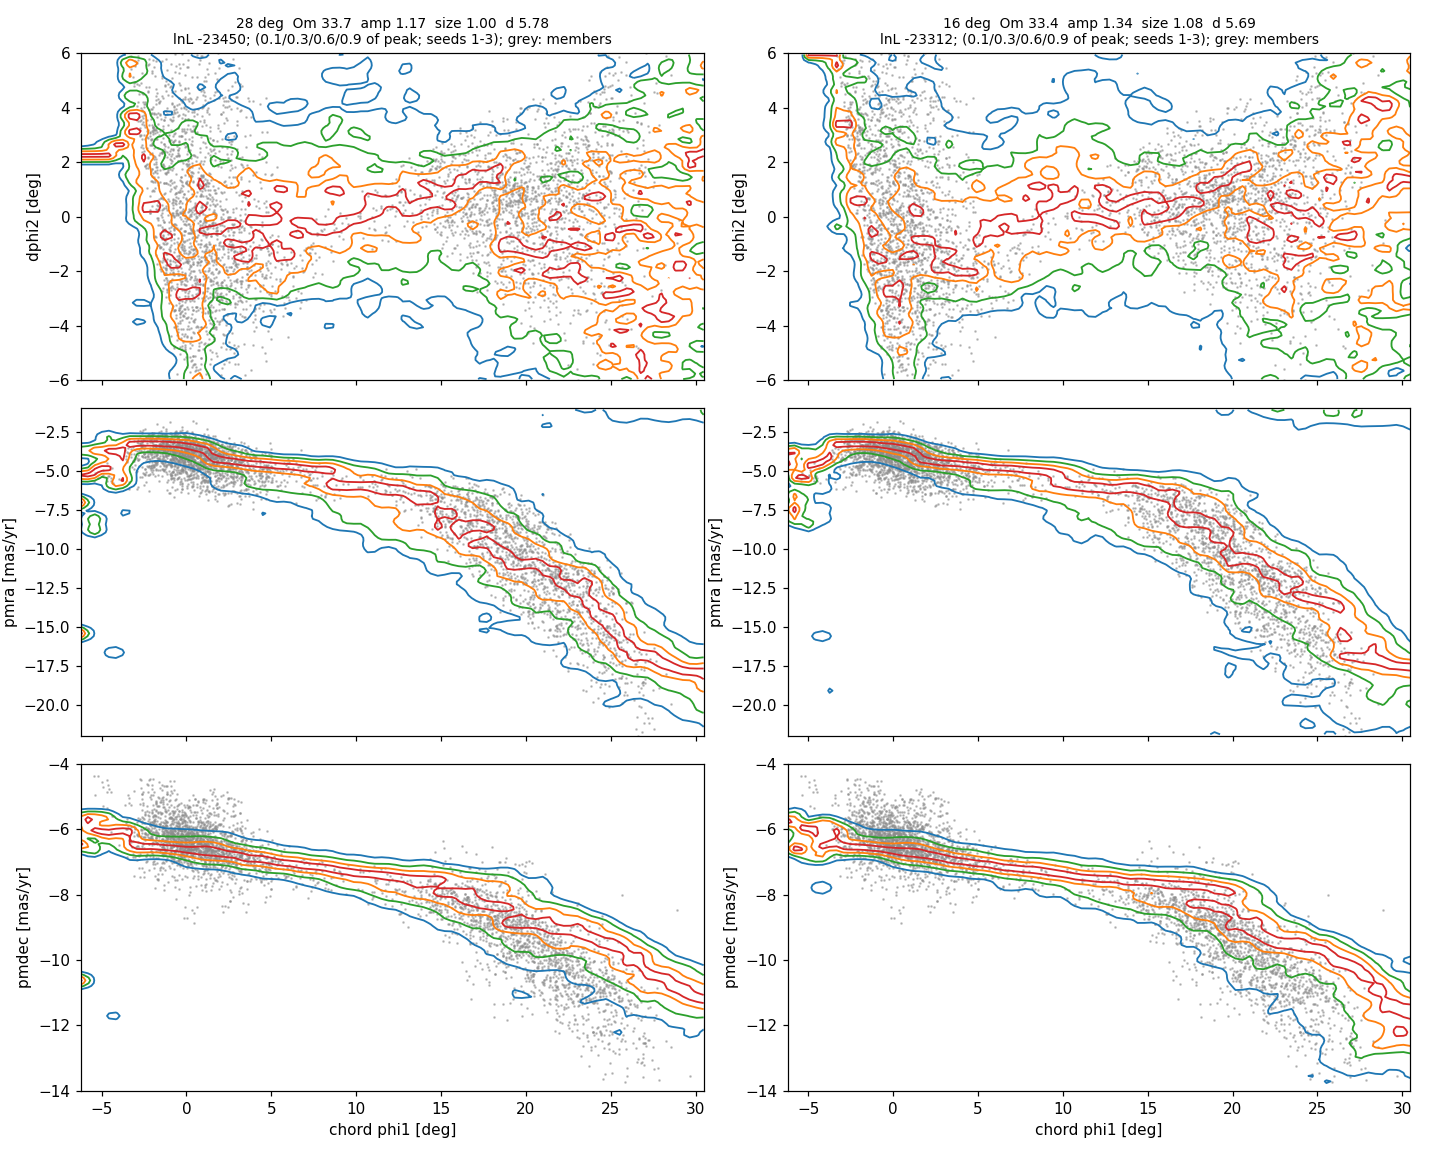
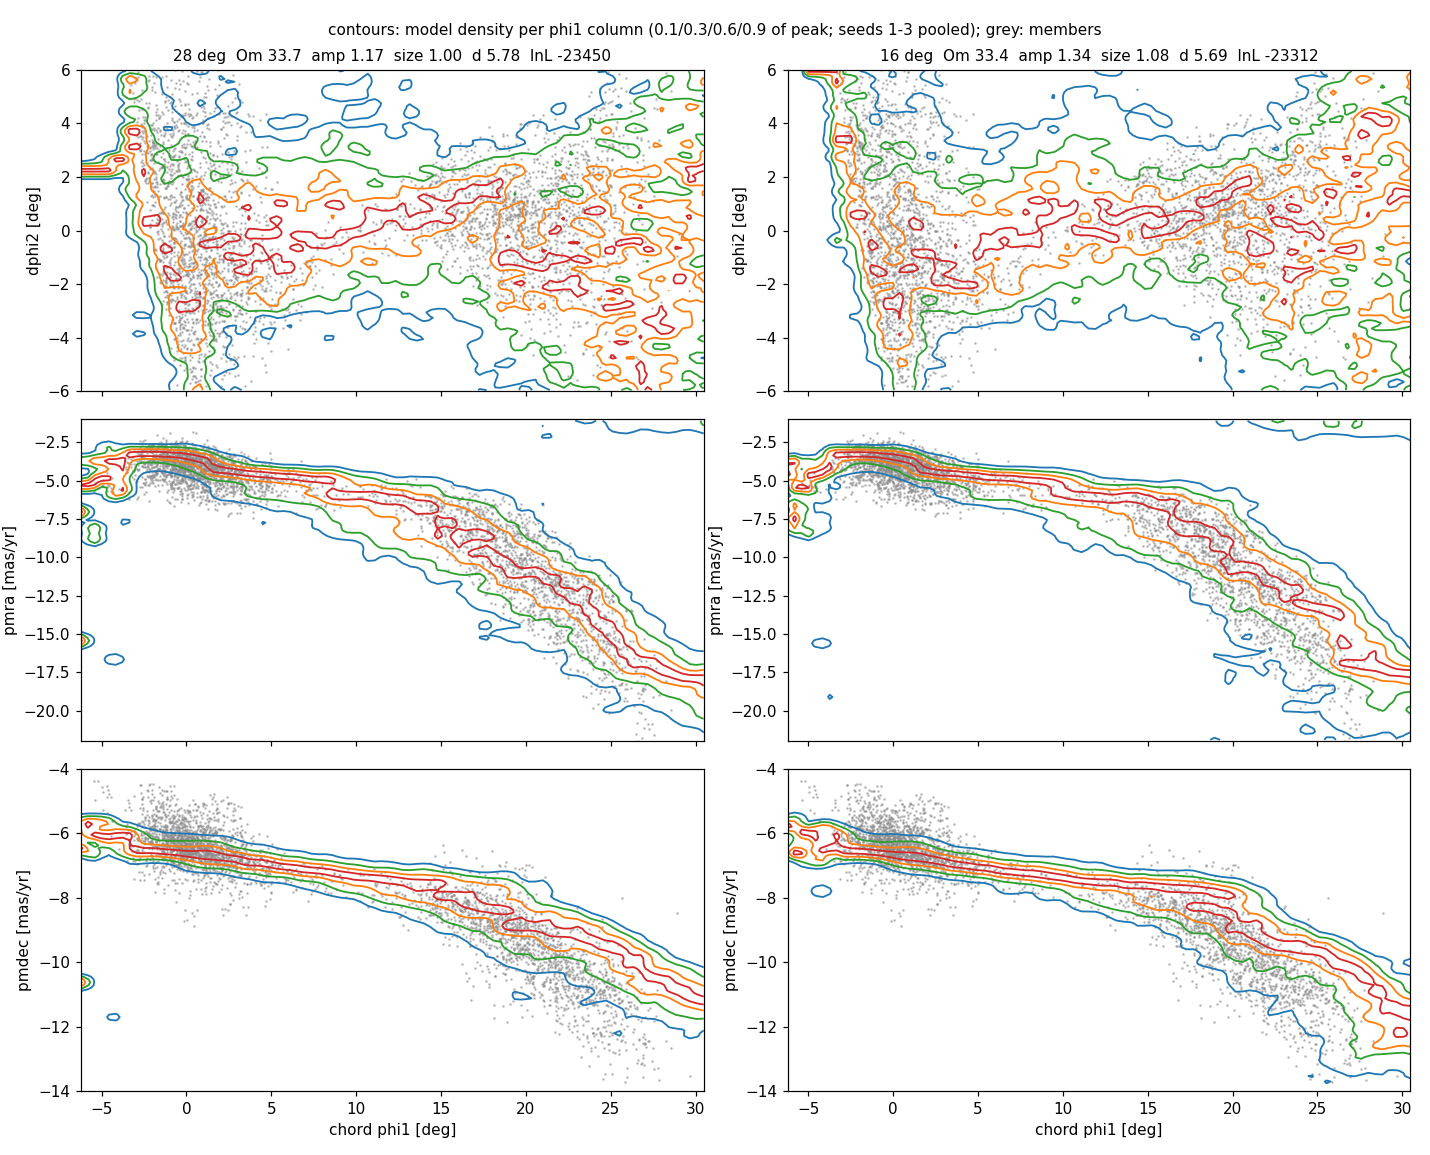
Fix plot titles

diff --git a/bin/streams/plot_profile_stage1.py b/bin/streams/plot_profile_stage1.py
@@ -41,7 +41,7 @@ for col, an in enumerate((28., 16.)):
         a.plot(du, dy, ".", color="0.55", ms=1.5, alpha=.5, zorder=1)
         a.contour(0.5*(xe[1:]+xe[:-1]), 0.5*(ye[1:]+ye[:-1]), Hc.T, levels=[0.1, 0.3, 0.6, 0.9], colors=["C0", "C2", "C1", "C3"], linewidths=1.2, zorder=2)
         a.set_ylabel(lab); a.set_ylim(lim)
-    ax[0, col].set_title(f"{an:g} deg  Om {b['om']:.1f}  amp {b['am']:.2f}  size {b['size']:.2f}  d {b['dist']:.2f}\nlnL {b['lnL']:.0f};"
-                         " (0.1/0.3/0.6/0.9 of peak; seeds 1-3); grey: members", fontsize=9)
+    ax[0, col].set_title(f"{an:g} deg  Om {b['om']:.1f}  amp {b['am']:.2f}  size {b['size']:.2f}  d {b['dist']:.2f}  lnL {b['lnL']:.0f}", fontsize=10)
     ax[2, col].set_xlabel("chord phi1 [deg]")
+fig.suptitle("contours: model density per phi1 column (0.1/0.3/0.6/0.9 of peak; seeds 1-3 pooled); grey: members", fontsize=10)
 fig.tight_layout(); fig.savefig(ROOT/"plots/profile_s1_best.png", dpi=110); print("saved")
